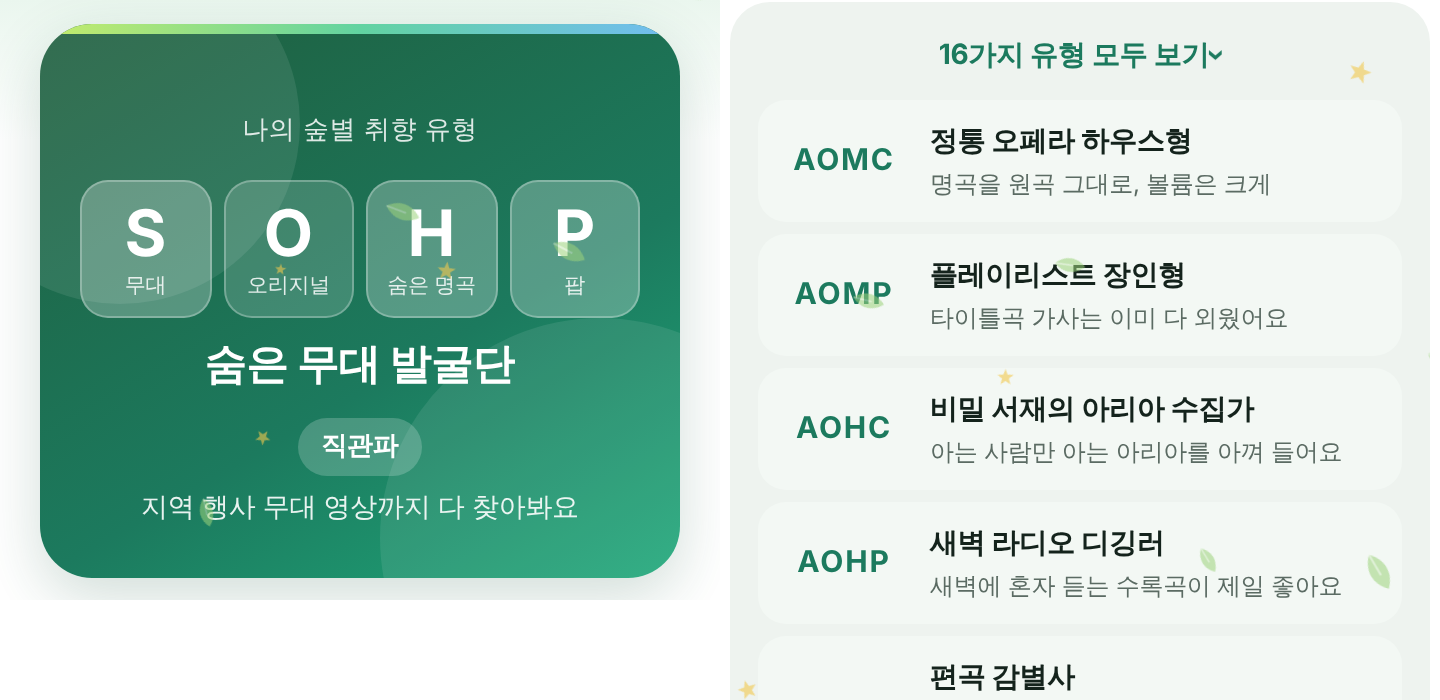
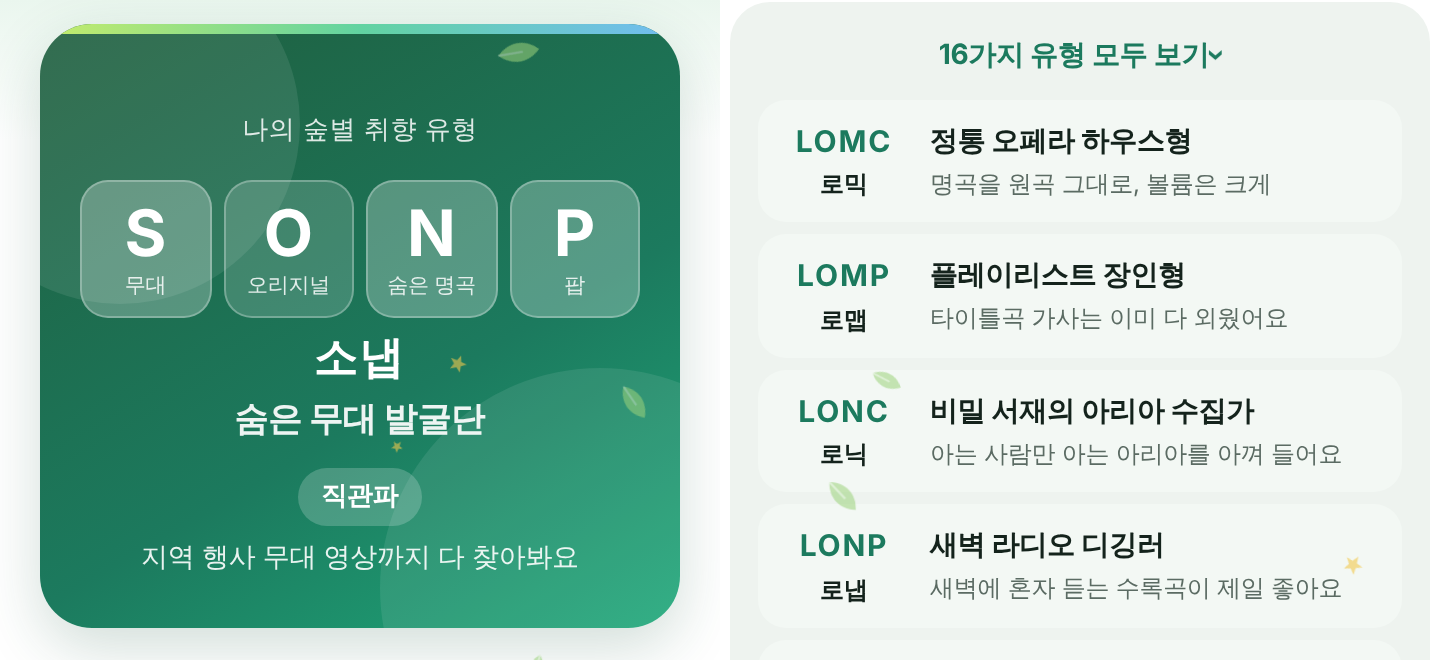
v604: 취향 코드 L/S·O/A·M/N·C/P + 읽는 법(로믹·소닉…) 결과·16유형 목록에
Claude-Session: https://claude.ai/code/session_01MGTh9zKioiZsMkgnkSk7j5

diff --git a/app.js b/app.js
@@ -5127,7 +5127,8 @@
   const TS_ANS = ['전혀 아니야', '아닌 편', '그런 편', '완전 맞아'];
   const TS_ORDER = [0, 2, 4, 6, 1, 3, 5, 7, 8];  // 축이 섞여 나오게
   const TS_AX = [['음원파', '무대파'], ['오리지널파', '변주파'], ['대표곡파', '숨은 명곡파'], ['클래식파', '팝파']];
-  const TS_EN = [['A', 'S'], ['O', 'V'], ['M', 'H'], ['C', 'P']];  // Audio·Stage / Original·Variation / Main·Hidden / Classic·Pop
+  const TS_EN = [['L', 'S'], ['O', 'A'], ['M', 'N'], ['C', 'P']];  // Listen·Stage / Original·Arrange / Main·Niche / Classic·Pop
+  const TS_READ = n => ['로', '라', '소', '사'][n >> 2] + ['믹', '맵', '닉', '냅'][n & 3];  // 읽는 법: 로믹·소닉…
   const TS_AXN = ['감상', '곡', '발견', '결'], TS_AXT = ['즐기는 방식', '좋아하는 버전', '곡 고르는 눈', '음악 장르'];
   // 순서: 감상(듣·보) 곡(오리지널·변주) 발견(메인·디깅) 결(클래식·팝) → 번호 = 보*8 + 변주*4 + 디깅*2 + 팝
   const TS_TYPES = [
@@ -5186,7 +5187,7 @@
     return `<div class="mt-hero ts-hero"><i class="mt-stripe"></i>
         <p class="mt-lab">나의 숲별 취향 유형</p>
         <div class="ts-code" aria-label="유형 코드">${X.map((x, k) => `<span class="${x.b ? 'r' : 'l'}"><b>${TS_EN[k][x.b]}</b><small>${TS_AX[k][x.b].replace(/파$/, '')}</small></span>`).join('')}</div>
-        <p class="mt-type">${T[1]}</p>
+        <p class="ts-read">${TS_READ(TS_TYPES.indexOf(T))}</p><p class="mt-type">${T[1]}</p>
         <p class="ts-title">${S[1]}</p>
         <p class="mt-say">${T[2]}</p>
       </div>
@@ -5202,7 +5203,7 @@
         <div class="ts-style"><p><small>덕질 스타일</small><b>${S[1]}</b> ${S[2]}</p></div>
       </section>
       <details class="ts-all"><summary>16가지 유형 모두 보기</summary><ul>${TS_TYPES.map((y, n) => { const bits = [n >> 3 & 1, n >> 2 & 1, n >> 1 & 1, n & 1], me = y === T;
-        return `<li${me ? ' class="me"' : ''}><span class="ts-mini">${bits.map((v, k) => TS_EN[k][v]).join('')}</span><p><b>${y[1]}${me ? ' <em>나</em>' : ''}</b><small>${y[2]}</small></p></li>`; }).join('')}</ul></details>`;
+        return `<li${me ? ' class="me"' : ''}><span class="ts-mini">${bits.map((v, k) => TS_EN[k][v]).join('')}<small>${TS_READ(n)}</small></span><p><b>${y[1]}${me ? ' <em>나</em>' : ''}</b><small>${y[2]}</small></p></li>`; }).join('')}</ul></details>`;
   }
   // 사분면: 사람마다 점 하나 (지도 2장: 감상×결, 곡×발견). pp = [[답, 색 번호, 이름]]
   const TS_MAPS = [[0, 3], [1, 2]];

diff --git a/index.html b/index.html
@@ -23,7 +23,7 @@
 <link href="https://fonts.googleapis.com/css2?family=Gowun+Batang:wght@400;700&display=swap" rel="stylesheet">
 <link rel="stylesheet" href="https://cdn.jsdelivr.net/gh/orioncactus/pretendard@v1.3.9/dist/web/variable/pretendardvariable-dynamic-subset.min.css">
 <script>try{var d=JSON.parse(localStorage.getItem('sb-deco')||'{}');if(d.t)document.documentElement.dataset.theme=d.t;if(d.f)document.documentElement.dataset.fs=d.f}catch(e){}</script>
-<link rel="stylesheet" href="style.css?v=603">
+<link rel="stylesheet" href="style.css?v=604">
 </head>
 <body>
 <div class="app">
@@ -46,9 +46,9 @@
 <!-- 방문자 수 (GoatCounter: 쿠키·개인정보 없이 화면별 방문 수만 세요) -->
 <script data-goatcounter="https://soopbyeol.goatcounter.com/count" data-goatcounter-settings='{"no_onload": true}' async src="https://gc.zgo.at/count.js"></script>
 <script src="lib/fuse.min.js"></script>
-<script src="i18n.js?v=603"></script>
-<script src="config.js?v=603"></script>
-<script src="data.js?v=603"></script>
-<script src="app.js?v=603"></script>
+<script src="i18n.js?v=604"></script>
+<script src="config.js?v=604"></script>
+<script src="data.js?v=604"></script>
+<script src="app.js?v=604"></script>
 </body>
 </html>

diff --git a/style.css b/style.css
@@ -2138,3 +2138,7 @@ a.wt-yes { display: flex; align-items: center; text-decoration: none; }
 .ts-code b { font-family: "IBM Plex Sans KR", system-ui, sans-serif; font-size: 32px; font-weight: 700; letter-spacing: 0; }
 .ts-mini { font-family: "IBM Plex Sans KR", system-ui, sans-serif; font-size: 16px; font-weight: 700; letter-spacing: .12em; width: 58px; }
 .ts-mini { width: 62px; white-space: nowrap; letter-spacing: .06em; font-size: 15px; }
+.ts-read { margin: 4px 0 0; font-size: 22px; font-weight: 800; letter-spacing: .04em; }
+.ts-read + .mt-type { margin-top: 2px; font-size: 17px; opacity: .92; }
+.ts-mini { display: grid; gap: 1px; }
+.ts-mini small { font-size: 12px; font-weight: 700; letter-spacing: 0; color: var(--ink); }

diff --git a/sw.js b/sw.js
@@ -1,6 +1,6 @@
 // 한 번 연 화면 파일을 저장해 두고, 다음부터 빨리 열거나 인터넷이 없을 때 써요.
 // 시트 데이터는 data.js가 따로 저장하니까 여기서는 사이트 파일만 다뤄요.
-const CACHE = 'soopbyeol-v603';
+const CACHE = 'soopbyeol-v604';
 const SHELL = ['./', 'index.html', 'style.css?v=162', 'config.js?v=162', 'data.js?v=162', 'app.js?v=162', 'lib/fuse.min.js', 'manifest.webmanifest', 'icons/icon-192.png'];
 
 self.addEventListener('install', ev => {
